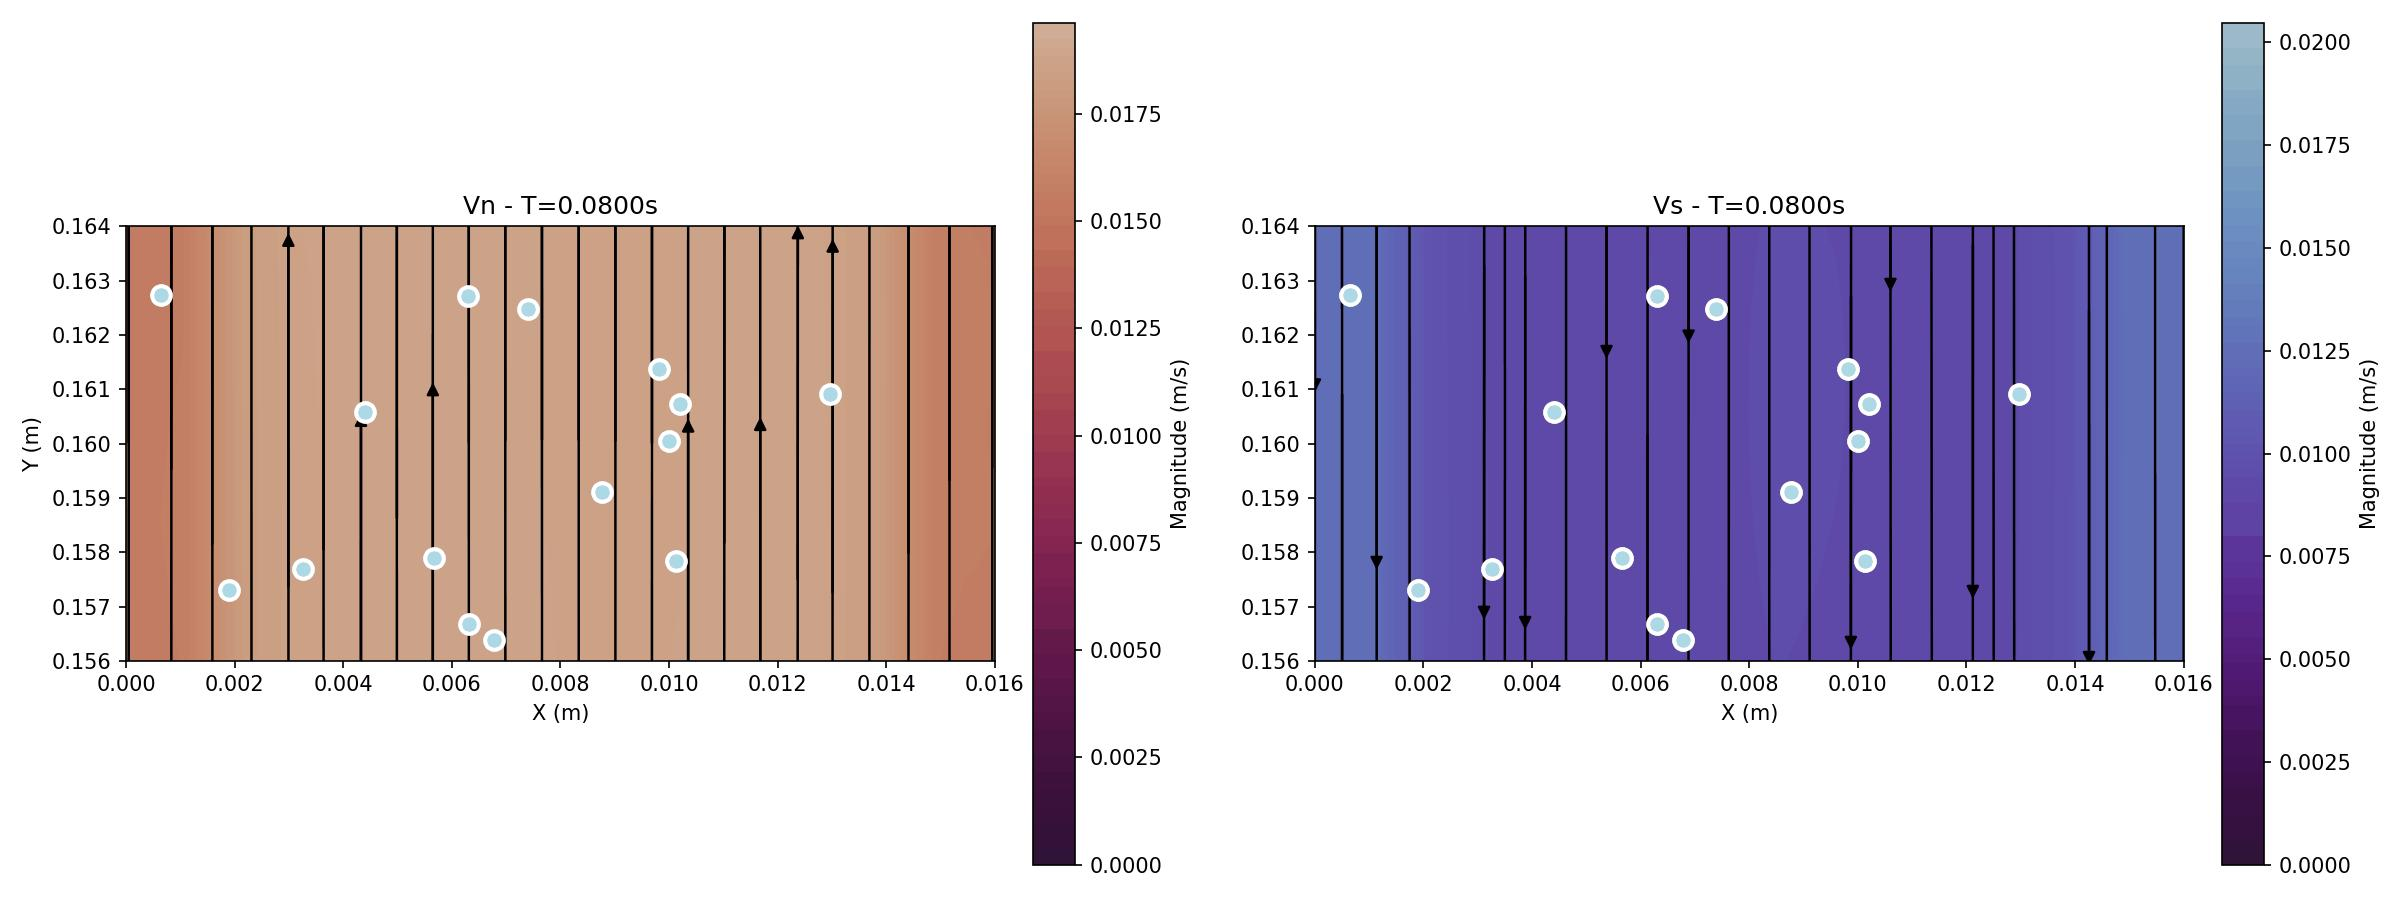
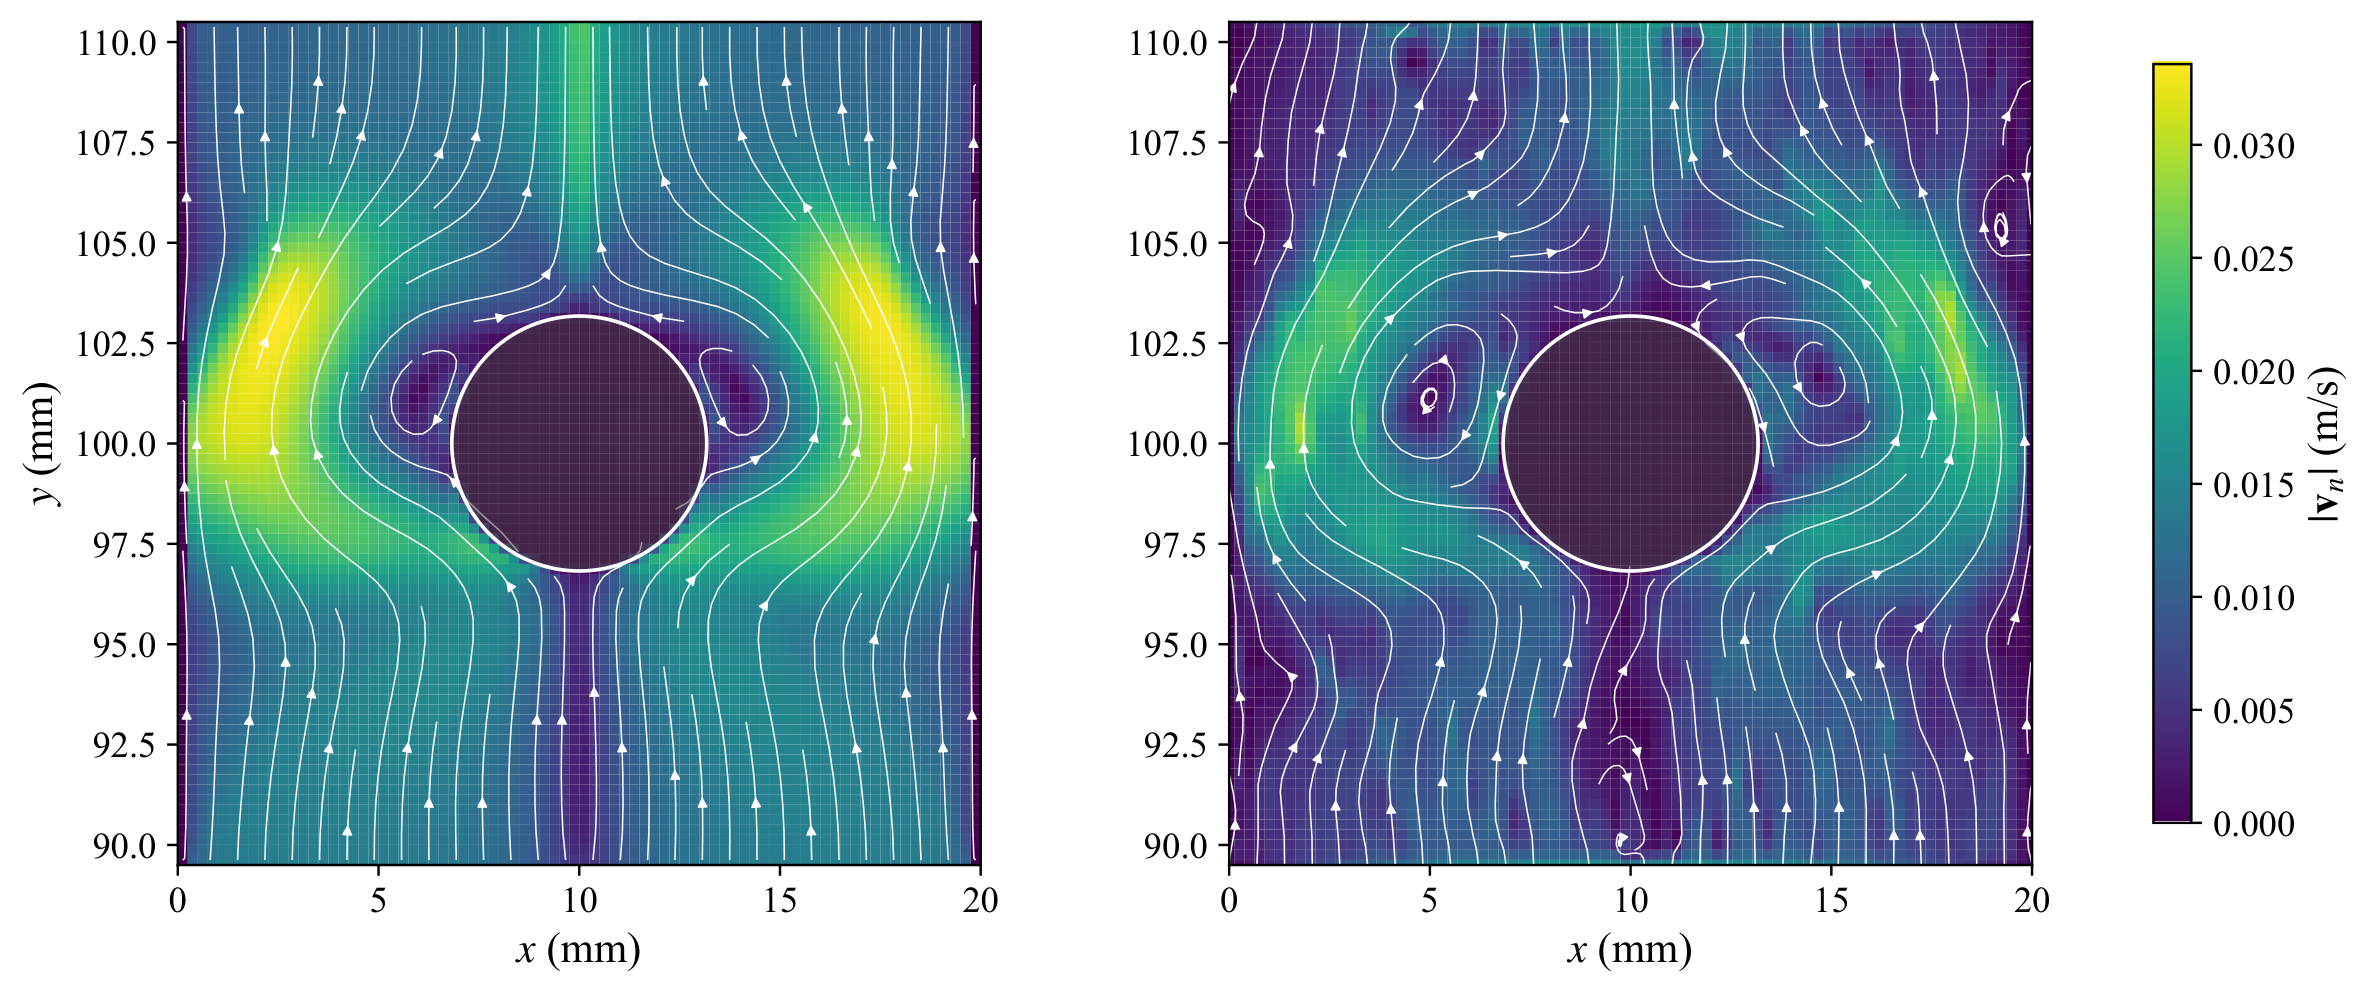
add project information

diff --git a/src/content/research/project1.md b/src/content/research/project1.md
@@ -1,9 +1,9 @@
 ---
 title: "Flow Reconstruction of Superfluid Helium Based on PhiFlow"
 date: 2026-03-05
-description: "reconstruct flow field through PIV data of superfliud helium counterflow experiment with PhiFlow and JAX"
+description: "Reconstruct flow field through PTV/PIV data of superfliud helium counterflow experiment with PhiFlow and JAX"
 cover: "/images/research/project1.png"
-status: "Half Completed"
+status: "Completed"
 venue: ""
 ---
 